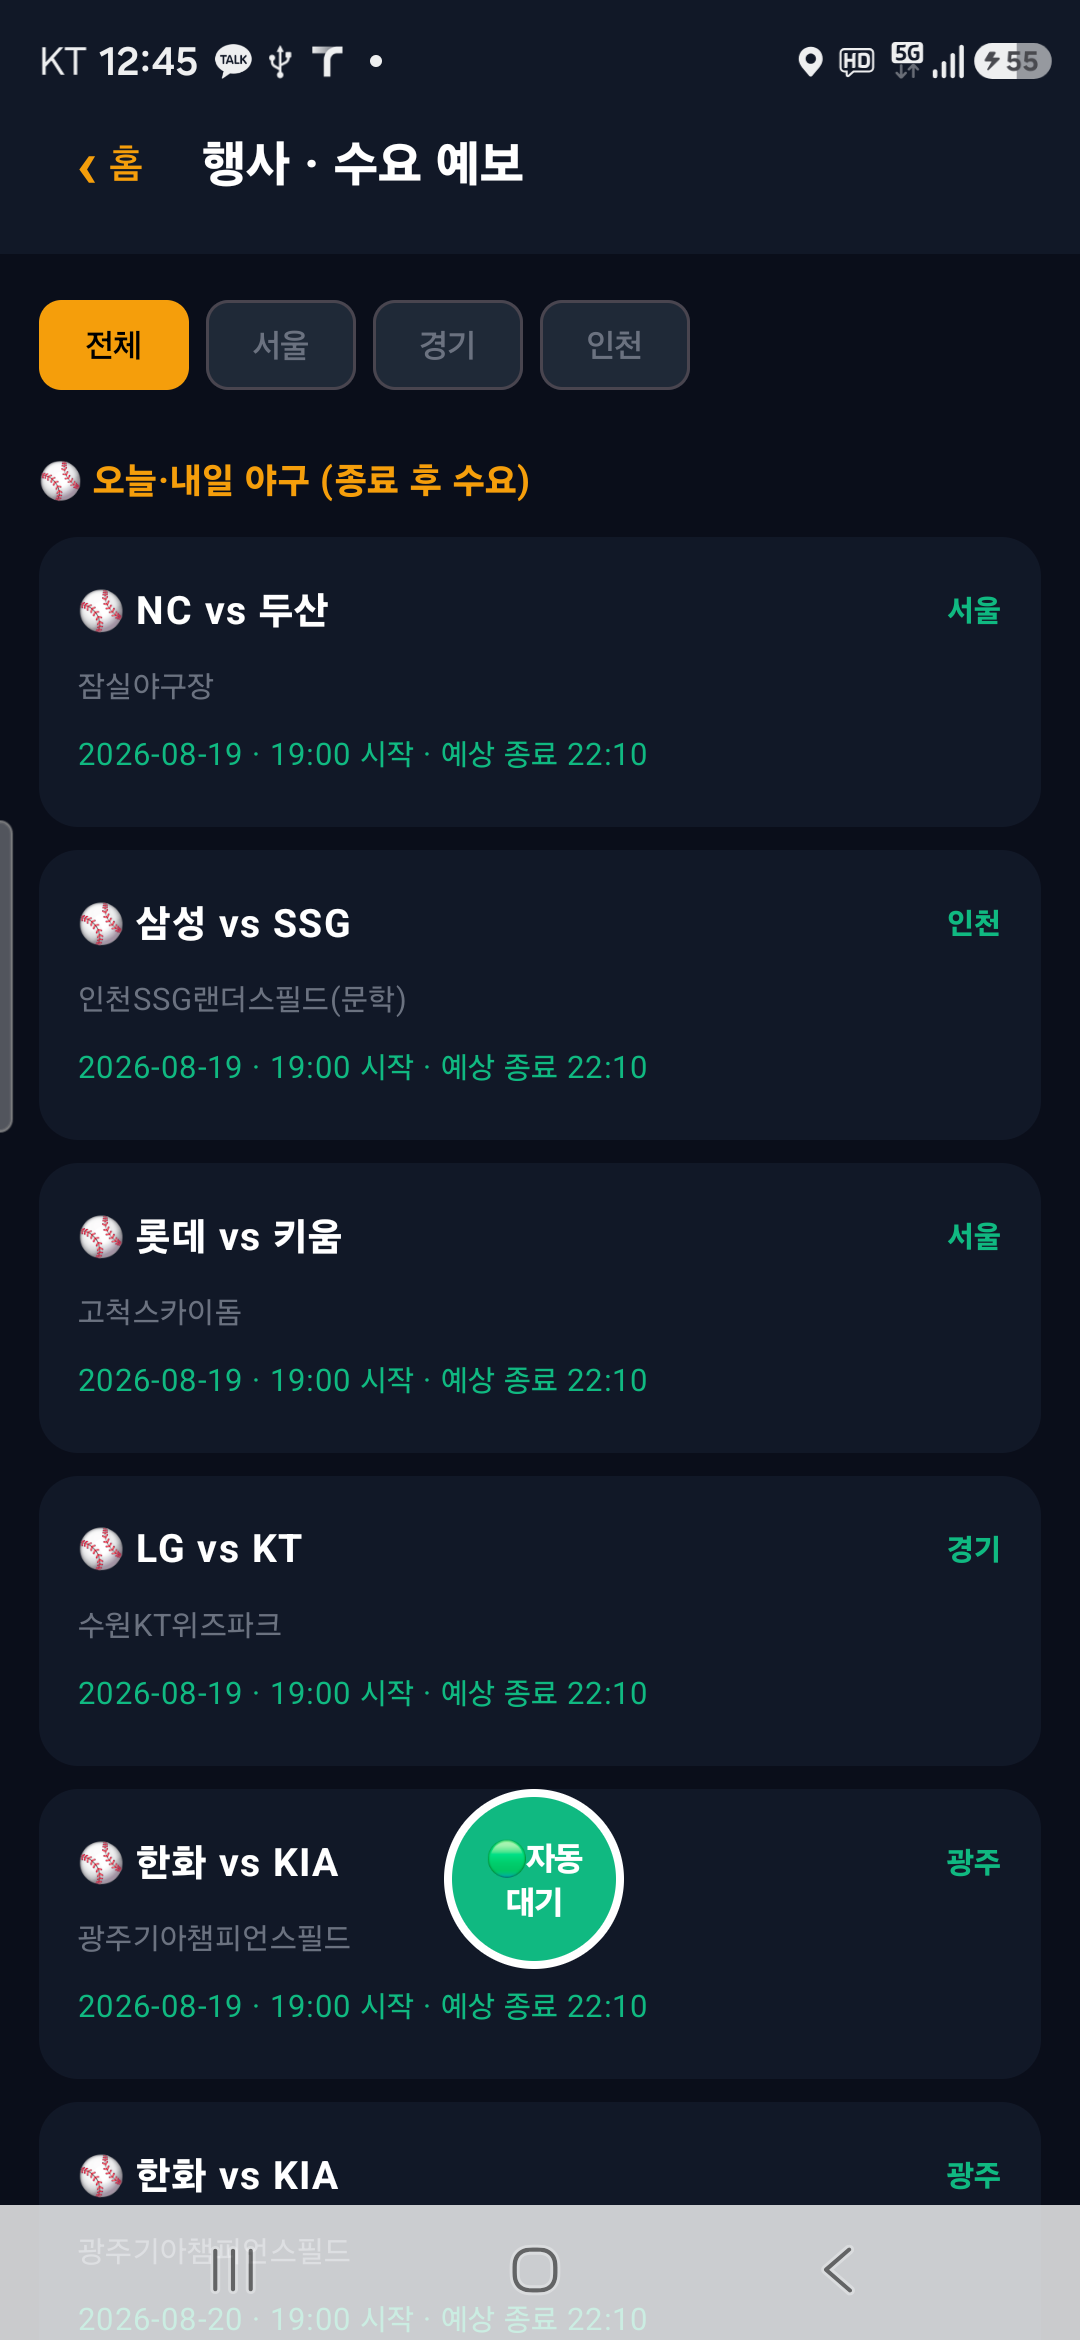
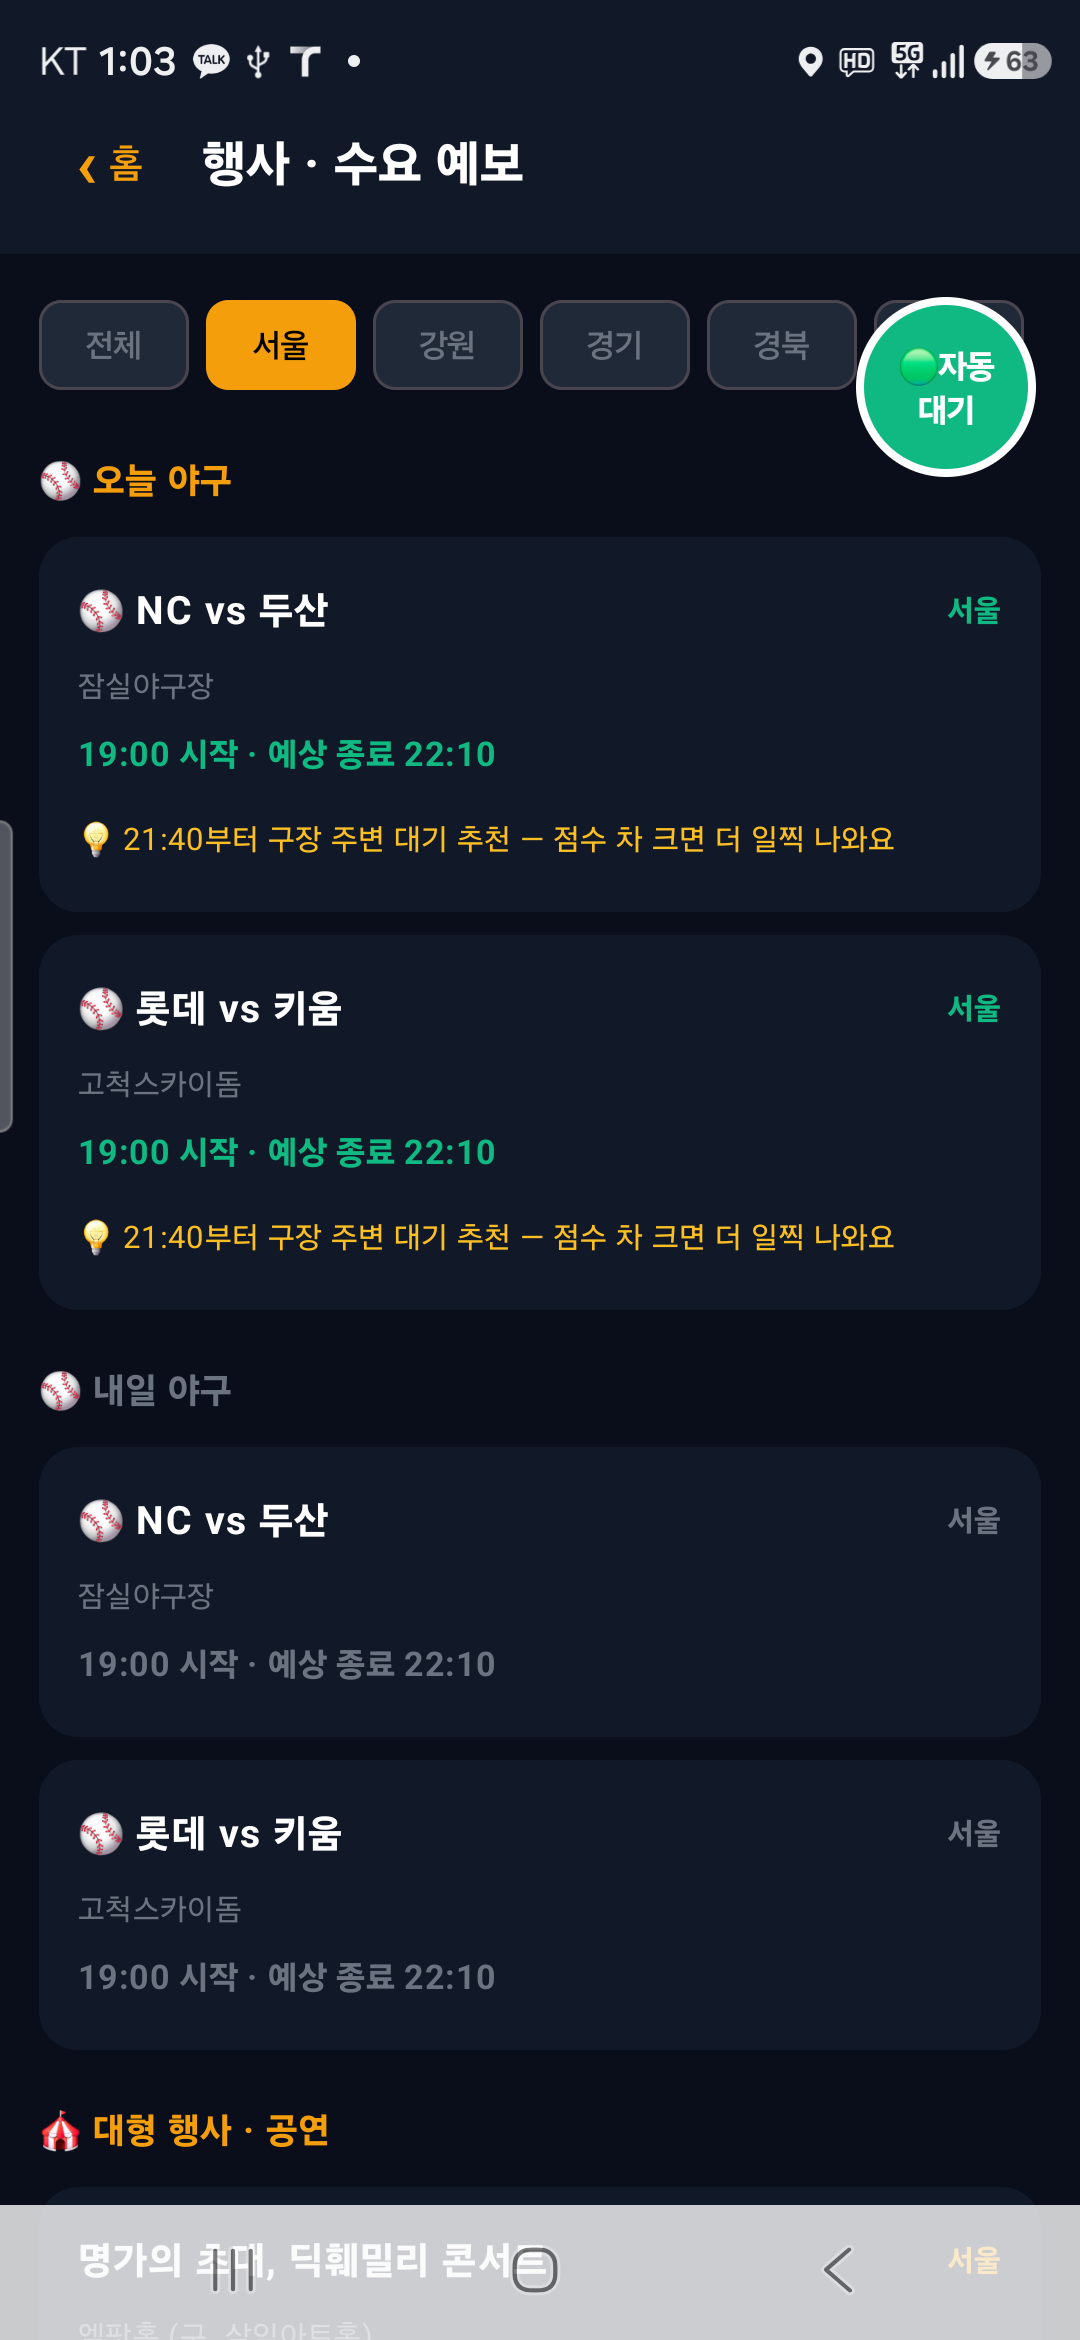
v87-daystart-dialog-no-accidental-cycle

diff --git a/app/src/main/java/com/callradar/app/screen/HomeScreen.kt b/app/src/main/java/com/callradar/app/screen/HomeScreen.kt
@@ -934,17 +934,36 @@ fun HomeScreen(nickname: String, userId: String, refreshKey: Int, onLogout: () -
                                 }
                             }
                             Spacer(Modifier.height(8.dp))
-                            // [v57] 영업일 시작시각 — 자정 넘긴 운행을 어느 날에 귀속할지 기준. 탭하면 순환(자정/새벽4·5·6시). 설정하면 완료시각 기준 귀속 활성화.
+                            // [#103 수정] 영업일 시작시각 — 예전엔 탭할 때마다 값이 즉시 순환(0→4→5→6)돼서
+                            //  실수 탭 한 번에 매출 귀속 기준이 바뀌고, 10시 등 순환 밖 설정값은 소리없이 날아갔음.
+                            //  이제 탭하면 선택 다이얼로그(0~12시)로 확인 후 변경.
                             run {
                                 var dsh by remember { mutableStateOf(prefs.getInt("day_start_hour", 0)) }
-                                val opts = listOf(0, 4, 5, 6)
-                                Row(modifier = Modifier.fillMaxWidth().background(AppTheme.surface2, RoundedCornerShape(10.dp)).clickable {
-                                    val idx = opts.indexOf(dsh).let { if (it < 0) 0 else it }
-                                    val nv = opts[(idx + 1) % opts.size]
-                                    dsh = nv; prefs.edit().putInt("day_start_hour", nv).putBoolean("day_start_set", true).apply()
-                                }.padding(horizontal = 12.dp, vertical = 10.dp), horizontalArrangement = Arrangement.SpaceBetween, verticalAlignment = Alignment.CenterVertically) {
+                                var showDshDlg by remember { mutableStateOf(false) }
+                                Row(modifier = Modifier.fillMaxWidth().background(AppTheme.surface2, RoundedCornerShape(10.dp)).clickable { showDshDlg = true }
+                                    .padding(horizontal = 12.dp, vertical = 10.dp), horizontalArrangement = Arrangement.SpaceBetween, verticalAlignment = Alignment.CenterVertically) {
                                     Text("📅 영업일 시작시각(자정 넘김 귀속)", fontSize = 12.sp, color = muted)
-                                    Text(if (prefs.getBoolean("day_start_set", false)) (if (dsh == 0) "자정(0시)" else "새벽 ${dsh}시") + " · 탭변경" else "미설정 · 탭해서 설정", fontSize = 12.sp, fontWeight = FontWeight.Bold, color = if (prefs.getBoolean("day_start_set", false)) accent else muted)
+                                    Text(if (prefs.getBoolean("day_start_set", false)) (if (dsh == 0) "자정(0시)" else "${dsh}시") + " · 탭변경" else "미설정 · 탭해서 설정", fontSize = 12.sp, fontWeight = FontWeight.Bold, color = if (prefs.getBoolean("day_start_set", false)) accent else muted)
+                                }
+                                if (showDshDlg) {
+                                    AlertDialog(onDismissRequest = { showDshDlg = false },
+                                        title = { Text("영업일 시작시각", color = AppTheme.text, fontWeight = FontWeight.Bold) },
+                                        text = { Column {
+                                            Text("자정 넘긴 운행을 어느 날 매출로 묶을지 기준이에요. 야간·일차 기사님은 새벽 시각을 권해요.", fontSize = 12.sp, color = muted)
+                                            Spacer(Modifier.height(10.dp))
+                                            listOf(listOf(0, 4, 5, 6), listOf(7, 8, 9, 10), listOf(11, 12)).forEach { rowOpts ->
+                                                Row(horizontalArrangement = Arrangement.spacedBy(6.dp), modifier = Modifier.padding(bottom = 6.dp)) {
+                                                    rowOpts.forEach { h ->
+                                                        FilterChip(selected = dsh == h, onClick = {
+                                                            dsh = h; prefs.edit().putInt("day_start_hour", h).putBoolean("day_start_set", true).apply(); showDshDlg = false
+                                                        }, label = { Text(if (h == 0) "자정" else "${h}시", fontSize = 12.sp) },
+                                                            colors = FilterChipDefaults.filterChipColors(selectedContainerColor = accent, selectedLabelColor = Color.Black, containerColor = AppTheme.surface2, labelColor = muted))
+                                                    }
+                                                }
+                                            }
+                                        } },
+                                        confirmButton = {}, dismissButton = { OutlinedButton(onClick = { showDshDlg = false }) { Text("닫기") } },
+                                        containerColor = AppTheme.card)
                                 }
                             }
                             Spacer(Modifier.height(10.dp))
